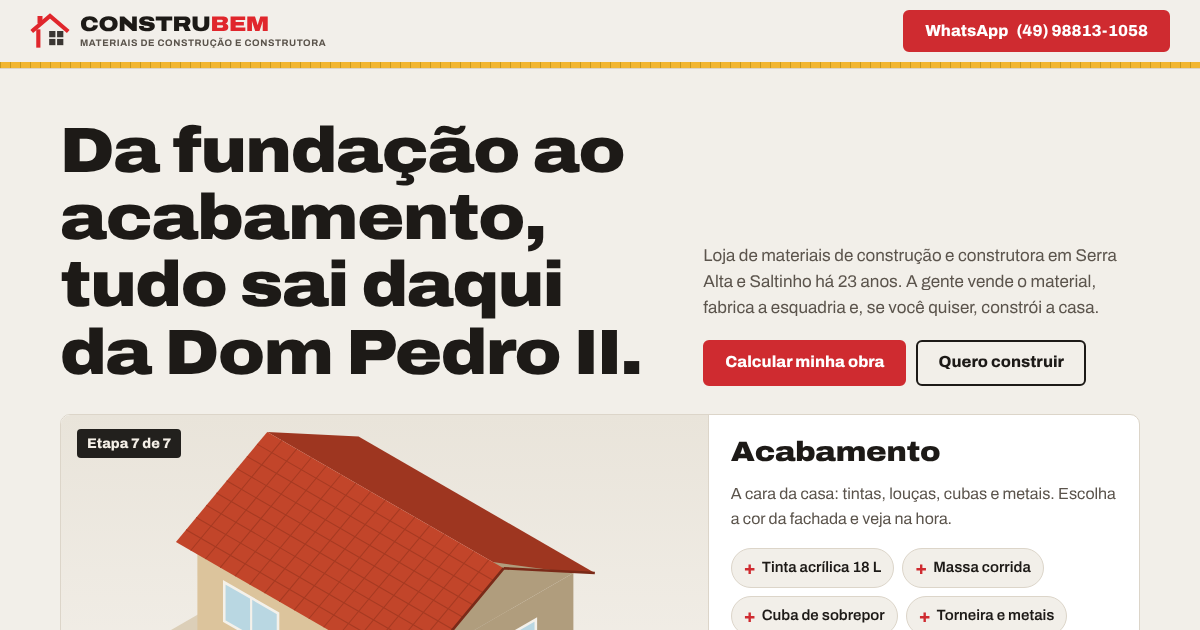
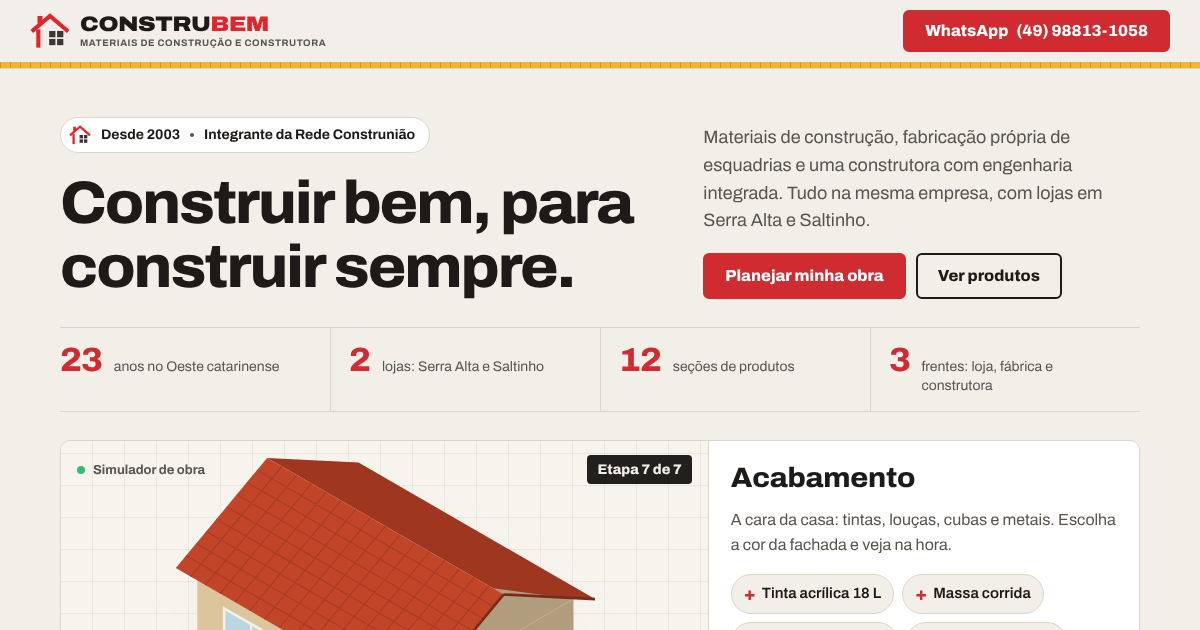
Abertura com mais credibilidade: slogan oficial, credenciais, faixa de números e simulador técnico
- Título com o slogan da loja: Construir bem, para construir sempre
- Selo Desde 2003 + Integrante da Rede Construnião e subtítulo objetivo
- Faixa de números (23 anos, 2 lojas, 12 seções, 3 frentes)
- Casa como simulador de obra: quadriculado técnico, indicador ao vivo e progresso
- Títulos do site menos largos e menos pesados para um visual mais sóbrio

Claude-Session: https://claude.ai/code/session_01Mawpux8SNx8Pf2g1y8kKSh

diff --git a/css/site.css b/css/site.css
@@ -10,9 +10,9 @@
 *{box-sizing:border-box;min-width:0}
 html{scroll-behavior:smooth;scroll-padding-top:76px}
 body{margin:0;background:var(--bg);color:var(--ink);font:16px/1.55 Archivo,system-ui,sans-serif;overflow-x:clip}
-h1,h2,h3{font-stretch:112%;font-weight:900;letter-spacing:-.02em;line-height:1.05;text-wrap:balance;margin:0}
-h1{font-size:clamp(34px,5.4vw,64px)}
-h2{font-size:clamp(30px,4vw,48px)}
+h1,h2,h3{font-stretch:104%;font-weight:800;letter-spacing:-.025em;line-height:1.06;text-wrap:balance;margin:0}
+h1{font-size:clamp(38px,5vw,66px);font-weight:800;letter-spacing:-.035em;line-height:1.07}
+h2{font-size:clamp(30px,3.6vw,46px)}
 h3{font-size:20px;font-stretch:100%;font-weight:800;letter-spacing:-.01em}
 p{margin:0}
 a{color:inherit}
@@ -75,7 +75,7 @@ input[type=range]::-moz-range-thumb{width:18px;height:26px;border-radius:4px;bac
 .drop{animation:drop .5s cubic-bezier(.2,.9,.3,1.2) both}
 /* wordmark */
 .mark{background:var(--brick);color:#fff;overflow:hidden}
-.word{display:flex;justify-content:space-between;font-stretch:112%;font-weight:900;font-size:clamp(44px,12.4vw,176px);line-height:.9;letter-spacing:-.03em;user-select:none}
+.word{display:flex;justify-content:space-between;font-stretch:112%;font-weight:800;font-size:clamp(44px,12.4vw,176px);line-height:.9;letter-spacing:-.03em;user-select:none}
 .word span{display:inline-block;transition:transform .25s cubic-bezier(.2,.9,.3,1.4),color .2s;text-shadow:0 .06em 0 var(--brick2)}
 .word span:hover,.word span.up{transform:translateY(-.12em) rotate(-3deg);color:var(--yel)}
 .mark-row{display:flex;flex-wrap:wrap;justify-content:space-between;gap:16px;margin-top:26px;font-size:19px;font-weight:600}
@@ -89,7 +89,7 @@ input[type=range]::-moz-range-thumb{width:18px;height:26px;border-radius:4px;bac
 .brk[aria-pressed=true]{background:var(--yel);color:var(--yel-ink)}
 .half{grid-column:span 1;background:var(--brick2);border-radius:3px;opacity:.75}
 .detail{position:sticky;top:96px;background:var(--card);border:1px solid var(--line);border-radius:10px;padding:24px;display:grid;gap:14px}
-.detail h3{font-size:26px;font-stretch:112%;font-weight:900}
+.detail h3{font-size:26px;font-stretch:104%;font-weight:800}
 .detail .brands{font-size:14px;color:var(--mute)}
 .detail .ctas .btn{min-height:42px}
 @media(max-width:860px){.split{grid-template-columns:minmax(0,1fr)}.detail{position:static}}
@@ -122,7 +122,7 @@ input[type=range]::-moz-range-thumb{width:18px;height:26px;border-radius:4px;bac
 .num input,.num select{border:0;background:transparent;min-height:46px;padding:0 12px;font-size:16px;width:100%}
 .num em{font-style:normal;color:var(--mute);padding-right:12px;white-space:nowrap}
 .cout{background:var(--panel);color:var(--panel-ink);border-left:1px solid var(--line);padding:24px;display:grid;gap:14px;align-content:start}
-.big{font-stretch:112%;font-weight:900;font-size:clamp(44px,6vw,76px);line-height:1;letter-spacing:-.03em;color:var(--yel);font-variant-numeric:tabular-nums}
+.big{font-stretch:104%;font-weight:800;font-size:clamp(44px,6vw,76px);line-height:1;letter-spacing:-.03em;color:var(--yel);font-variant-numeric:tabular-nums}
 .cout ul{margin:0;padding:0;list-style:none;display:grid;gap:6px}
 .cout li{display:flex;justify-content:space-between;gap:12px;border-bottom:1px solid var(--panel-line);padding-bottom:6px}
 .cout li b{white-space:nowrap}
@@ -210,7 +210,7 @@ footer .bottom{border-top:1px solid #2e2a26;margin-top:28px;padding-top:16px;fon
 .placa{position:sticky;top:96px;display:grid;justify-items:center}
 .board{width:100%;background:#fbf8f1;color:#1d1a17;border:5px solid #2b2622;border-radius:6px;overflow:hidden;box-shadow:0 14px 0 -6px rgba(0,0,0,.12)}
 .board .bh{background:#c2452a;color:#fff;padding:12px 16px;display:flex;justify-content:space-between;align-items:center;gap:10px}
-.board .bh b{font-stretch:112%;font-weight:900;font-size:20px;letter-spacing:-.01em}
+.board .bh b{font-stretch:104%;font-weight:800;font-size:20px;letter-spacing:-.01em}
 .board .bh span{background:#f2b632;color:#2a2110;font-weight:800;font-size:13px;padding:3px 8px;border-radius:3px;white-space:nowrap}
 .board .plan{height:clamp(220px,22vw,260px);background:repeating-linear-gradient(0deg,transparent 0 15px,#ece5d8 15px 16px),repeating-linear-gradient(90deg,transparent 0 15px,#ece5d8 15px 16px),#fbf8f1;border-bottom:2px solid #2b2622}
 .board .plan svg{width:100%;height:100%;display:block}
@@ -265,7 +265,7 @@ footer .bottom{border-top:1px solid #2e2a26;margin-top:28px;padding-top:16px;fon
 .scene{position:relative;background:linear-gradient(180deg,#f6efe2,#efe5d3)}
 .scene svg{position:absolute;inset:0;width:100%;height:100%}
 .path{padding:28px;display:grid;gap:14px;align-content:start}
-.path h3{font-size:clamp(24px,2.6vw,32px);font-stretch:112%;font-weight:900;line-height:1.1}
+.path h3{font-size:clamp(24px,2.6vw,32px);font-stretch:104%;font-weight:800;line-height:1.1}
 .path>p{color:rgba(244,239,231,.75)}
 .path ol{list-style:none;margin:6px 0 0;padding:0;display:grid;gap:10px}
 .path li button{all:unset;box-sizing:border-box;width:100%;display:grid;grid-template-columns:40px minmax(0,1fr) auto;gap:14px;align-items:center;padding:12px 14px;border-radius:10px;background:rgba(244,239,231,.06);border:1px solid var(--panel-line);cursor:pointer;transition:background .15s,transform .15s}
@@ -347,7 +347,7 @@ footer .wm small{color:#9d958a}
 .gal figcaption b{font-size:18px;line-height:1.15}
 .gal figcaption small{font-size:13px;opacity:.85}
 .gal .ig{background:var(--panel);color:var(--panel-ink);display:grid;align-content:space-between;padding:20px;cursor:default}
-.gal .ig .n{font-stretch:112%;font-weight:900;font-size:clamp(34px,3.6vw,48px);line-height:1;color:var(--yel)}
+.gal .ig .n{font-stretch:104%;font-weight:800;font-size:clamp(34px,3.6vw,48px);line-height:1;color:var(--yel)}
 .gal .ig p{color:rgba(244,239,231,.75);font-size:15px}
 .gal .ig .btn{border-color:var(--panel-line);color:var(--panel-ink);justify-content:center}
 @media(max-width:900px){.gal{grid-template-columns:repeat(2,minmax(0,1fr))}.gal .ig{grid-column:span 2;aspect-ratio:auto;gap:14px}}
@@ -368,7 +368,7 @@ footer .wm small{white-space:normal;line-height:1.3}
 .tp.big img{position:absolute;inset:0;width:100%;height:100%;object-fit:cover;transition:transform .5s}
 .tp.big:hover img{transform:scale(1.05)}
 .tp.big .tx{position:relative;align-self:end;padding:60px 22px 22px;background:linear-gradient(180deg,transparent,rgba(16,13,11,.9));height:100%;align-content:end}
-.tp.big b{font-size:clamp(24px,2.6vw,32px);font-stretch:112%;font-weight:900}
+.tp.big b{font-size:clamp(24px,2.6vw,32px);font-stretch:104%;font-weight:800}
 .tp.big small{color:rgba(255,255,255,.85);font-size:15px}
 .tp.big em{color:var(--yel)}
 .tp i,.brk .hot{font-style:normal;justify-self:start;font-size:12px;font-weight:800;background:var(--yel);color:var(--yel-ink);padding:2px 8px;border-radius:3px;margin-bottom:4px}
@@ -385,7 +385,7 @@ footer .wm small{white-space:normal;line-height:1.3}
 .ab-photo{margin:0;position:relative;padding-bottom:150px}
 .ab-photo img{width:100%;height:auto;aspect-ratio:720/280;object-fit:cover;display:block;border-radius:4px;filter:saturate(.9) contrast(1.05)}
 .ab-card{position:absolute;right:clamp(16px,3vw,36px);bottom:0;width:min(360px,calc(100% - 32px));background:#fff;color:#1d1a17;padding:22px 24px;border-radius:2px;box-shadow:0 18px 40px rgba(0,0,0,.18);display:grid;gap:4px}
-.ab-card b{font-stretch:112%;font-weight:900;font-size:24px;letter-spacing:-.01em}
+.ab-card b{font-stretch:104%;font-weight:800;font-size:24px;letter-spacing:-.01em}
 .ab-card>span{color:#6b6157;font-size:14px}
 .ab-card ul{list-style:none;margin:10px 0 6px;padding:0 0 0 12px;border-left:2px solid #e0262c;display:grid;gap:4px;font-size:14px}
 .ab-card a{justify-self:end;display:inline-flex;align-items:center;gap:6px;font-weight:800;color:#1d1a17;text-decoration:none}
@@ -399,7 +399,7 @@ footer .wm small{white-space:normal;line-height:1.3}
 .pillars span{color:var(--mute)}
 .stats{display:grid;grid-template-columns:repeat(4,minmax(0,1fr));margin-top:clamp(36px,5vw,64px);border-top:2px solid var(--ink)}
 .stats div{padding:22px 20px 0 0;display:grid;gap:6px}
-.stats b{font-stretch:112%;font-weight:900;font-size:clamp(44px,5.4vw,72px);line-height:1;letter-spacing:-.03em;color:var(--brick);font-variant-numeric:tabular-nums}
+.stats b{font-stretch:104%;font-weight:800;font-size:clamp(44px,5.4vw,72px);line-height:1;letter-spacing:-.03em;color:var(--brick);font-variant-numeric:tabular-nums}
 .stats span{color:var(--mute);font-size:15px;max-width:22ch}
 .cred{display:grid;grid-template-columns:minmax(0,1.4fr) minmax(0,1fr);gap:24px;margin-top:40px;padding:24px;border:1px solid var(--line);border-radius:10px;background:var(--bg)}
 .rede{display:grid;grid-template-columns:56px minmax(0,1fr);gap:16px;align-items:start}
@@ -414,3 +414,28 @@ footer .wm small{white-space:normal;line-height:1.3}
 @media(max-width:900px){.ab-grid{grid-template-columns:minmax(0,1fr)}.stats{grid-template-columns:repeat(2,minmax(0,1fr));row-gap:20px}.cred{grid-template-columns:minmax(0,1fr)}.legal{border-left:0;padding-left:0;border-top:1px solid var(--line);padding-top:16px}}
 @media(max-width:900px){.ab-photo{padding-bottom:120px}}
 @media(max-width:520px){.pillars li{grid-template-columns:minmax(0,1fr);gap:2px}.ab-photo{padding-bottom:0}.ab-card{position:relative;left:auto;bottom:auto;width:auto;margin:-24px 14px 0}}
+
+/* abertura com credenciais */
+.h-main{display:grid;gap:18px}
+.cred-pill{justify-self:start;white-space:nowrap;display:inline-flex;align-items:center;gap:10px;padding:6px 14px 6px 8px;border-radius:999px;border:1px solid var(--line);background:var(--card);font-size:14px;font-weight:700;color:var(--ink)}
+.cred-pill svg{color:var(--logo-gray)}
+.cred-pill i{width:4px;height:4px;border-radius:50%;background:var(--mute)}
+.hero-top{align-items:end}
+.hero .lead{font-size:18px}
+.trust{display:grid;grid-template-columns:repeat(4,minmax(0,1fr));border-top:1px solid var(--line);border-bottom:1px solid var(--line);margin-bottom:28px}
+.trust div{display:flex;align-items:baseline;gap:12px;padding:16px 18px 16px 0}
+.trust div+div{padding-left:18px;border-left:1px solid var(--line)}
+.trust b{font-size:clamp(28px,2.8vw,38px);font-weight:800;font-stretch:104%;letter-spacing:-.03em;color:var(--brick);font-variant-numeric:tabular-nums;line-height:1}
+.trust span{color:var(--mute);font-size:14px;line-height:1.3}
+@media(max-width:480px){.cred-pill{font-size:12.5px;gap:7px;padding-right:12px}.trust div{flex-direction:column;gap:4px}}
+@media(max-width:760px){.trust{grid-template-columns:repeat(2,minmax(0,1fr))}.trust div:nth-child(3){padding-left:0;border-left:0}.trust div:nth-child(n+3){border-top:1px solid var(--line)}}
+/* visualizador técnico */
+.stage-pic{background:radial-gradient(ellipse at 50% 70%,light-dark(rgba(224,38,44,.06),rgba(242,182,50,.07)),transparent 60%),repeating-linear-gradient(0deg,transparent 0 31px,light-dark(rgba(29,26,23,.06),rgba(244,239,231,.05)) 31px 32px),repeating-linear-gradient(90deg,transparent 0 31px,light-dark(rgba(29,26,23,.06),rgba(244,239,231,.05)) 31px 32px),light-dark(#f7f4ee,#1a1715)}
+.hud{position:absolute;left:16px;right:16px;top:14px;z-index:1;display:flex;justify-content:space-between;gap:10px;pointer-events:none}
+.hud .live{display:inline-flex;align-items:center;gap:8px;font-size:13px;font-weight:700;color:var(--mute)}
+.hud .live i{width:8px;height:8px;border-radius:50%;background:#2fbf71;box-shadow:0 0 0 0 rgba(47,191,113,.6);animation:live 2s infinite}
+@keyframes live{70%{box-shadow:0 0 0 8px rgba(47,191,113,0)}100%{box-shadow:0 0 0 0 rgba(47,191,113,0)}}
+.stage-pic .tag{position:static;font-variant-numeric:tabular-nums}
+.hud-b{position:absolute;left:16px;right:16px;bottom:14px;z-index:1;display:grid;grid-template-columns:auto minmax(0,1fr);gap:12px;align-items:center;font-size:13px;font-weight:700;color:var(--mute);pointer-events:none}
+.hud-b .bar{height:4px;border-radius:2px;background:var(--line);overflow:hidden}
+.hud-b .bar i{display:block;height:100%;width:100%;background:linear-gradient(90deg,var(--brick),var(--yel));transition:width .5s}

diff --git a/index.html b/index.html
@@ -14,7 +14,7 @@
 <link rel="icon" href="img/icone.svg" type="image/svg+xml">
 <link rel="preload" href="fonts/archivo.woff2" as="font" type="font/woff2" crossorigin>
 <link rel="stylesheet" href="css/fonts.css?v=1">
-<link rel="stylesheet" href="css/site.css?v=10">
+<link rel="stylesheet" href="css/site.css?v=11">
 </head>
 <body>
 <header>
@@ -37,16 +37,25 @@
 <section class="band hero" id="inicio" data-trena="Obra">
   <div class="wrap">
     <div class="hero-top">
-      <h1>Da fundação ao acabamento, tudo sai daqui da Dom Pedro II.</h1>
+      <div class="h-main">
+        <span class="cred-pill"><svg viewBox="0 0 48 48" width="22" height="22" aria-hidden="true"><path d="M4 23 24 6l20 17" fill="none" stroke="#e0262c" stroke-width="5" stroke-linecap="square"/><rect x="9" y="6" width="6" height="9" fill="#e0262c"/><path d="M10 22v22" stroke="#e0262c" stroke-width="5"/><g fill="currentColor"><rect x="23" y="24" width="7.5" height="7.5"/><rect x="32.5" y="24" width="7.5" height="7.5"/><rect x="23" y="33.5" width="7.5" height="7.5"/><rect x="32.5" y="33.5" width="7.5" height="7.5"/></g></svg>Desde 2003 <i></i> Integrante da Rede Construnião</span>
+        <h1>Construir bem, para construir sempre.</h1>
+      </div>
       <div class="side">
-        <p class="lead">Loja de materiais de construção e construtora em Serra Alta e Saltinho há 23 anos. A gente vende o material, fabrica a esquadria e, se você quiser, constrói a casa.</p>
-        <div class="ctas"><a class="btn solid" href="#calculadora">Calcular minha obra</a><a class="btn" href="#construtora">Quero construir</a></div>
+        <p class="lead">Materiais de construção, fabricação própria de esquadrias e uma construtora com engenharia integrada. Tudo na mesma empresa, com lojas em Serra Alta e Saltinho.</p>
+        <div class="ctas"><a class="btn solid" href="#construtora">Planejar minha obra</a><a class="btn" href="#produtos">Ver produtos</a></div>
       </div>
     </div>
+    <div class="trust" aria-label="Números da Construbem">
+      <div><b>23</b><span>anos no Oeste catarinense</span></div>
+      <div><b>2</b><span>lojas: Serra Alta e Saltinho</span></div>
+      <div><b>12</b><span>seções de produtos</span></div>
+      <div><b>3</b><span>frentes: loja, fábrica e construtora</span></div>
+    </div>
     <div class="site" id="obra">
-      <div class="stage-pic"><span class="tag" id="stTag">Etapa 7 de 7</span><svg id="house" viewBox="0 0 600 460" preserveAspectRatio="xMidYMid meet" role="img" aria-label="Casa sendo construída etapa por etapa"></svg></div>
+      <div class="stage-pic"><div class="hud"><span class="live"><i></i>Simulador de obra</span><span class="tag" id="stTag">Etapa 7 de 7</span></div><div class="hud-b"><span id="stPct">100% concluído</span><span class="bar"><i id="stBar"></i></span></div><svg id="house" viewBox="0 0 600 460" preserveAspectRatio="xMidYMid meet" role="img" aria-label="Casa sendo construída etapa por etapa"></svg></div>
       <div class="stage-ui">
-        <h3 id="stName" style="font-size:28px;font-stretch:112%;font-weight:900">Acabamento</h3>
+        <h3 id="stName" style="font-size:28px;font-stretch:104%;font-weight:800">Acabamento</h3>
         <p id="stDesc"></p>
         <div class="chips" id="stItems"></div>
         <div id="paint" hidden><div class="lbl" style="margin-bottom:8px">Cor da fachada <span id="paintName" style="color:var(--mute);font-weight:600"></span></div><div class="swatches" id="sw"></div></div>
@@ -58,7 +67,6 @@
         <div class="steps scroll" id="steps"></div>
       </div>
     </div>
-    <div class="facts" style="margin-top:20px"><span>23 anos construindo sonhos</span><span>Lojas em Serra Alta e Saltinho</span><span>Engenharia integrada</span><span>Esquadrias e artefatos de cimento de fabricação própria</span><span>Entrega com frota própria</span><span>Rede Construnião</span></div>
   </div>
 </section>
 
@@ -131,7 +139,7 @@
   <div class="wrap">
     <div class="rowh"><div><h2>Os mais procurados nas lojas.</h2><p class="lead" style="margin-top:12px">O que mais sai em Serra Alta e Saltinho, segundo as ofertas da própria Construbem.</p></div><a class="btn" href="https://www.instagram.com/construbemsa/" target="_blank" rel="noopener">Ver no Instagram</a></div>
     <div class="tops" id="tops"></div>
-    <h3 style="margin-top:44px;font-size:clamp(22px,2.6vw,28px);font-stretch:112%;font-weight:900">Na prateleira agora</h3>
+    <h3 style="margin-top:44px;font-size:clamp(22px,2.6vw,28px);font-stretch:104%;font-weight:800">Na prateleira agora</h3>
     <div class="gal" id="gal"></div>
   </div>
 </section>
@@ -201,7 +209,7 @@
         <div class="posts" aria-hidden="true"><i></i><i></i></div>
       </div>
     </div>
-    <h3 style="margin-top:56px;font-size:clamp(24px,3vw,32px);font-stretch:112%;font-weight:900">Como funciona</h3>
+    <h3 style="margin-top:56px;font-size:clamp(24px,3vw,32px);font-stretch:104%;font-weight:800">Como funciona</h3>
     <div class="flow" id="flow"></div>
     <div class="svc" id="svc">
       <button data-t="0"><h3>Construção e reforma</h3><p>Casas, ampliações e reformas, com engenharia e material da própria loja.</p><em>Montar meu pedido →</em></button>
@@ -278,7 +286,7 @@
 <div class="sheet" id="sheet" role="dialog" aria-modal="true" aria-labelledby="shT">
   <div class="bg" id="shBg"></div>
   <div class="pn">
-    <div class="h"><h3 id="shT" style="font-size:22px;font-stretch:112%;font-weight:900">Lista da obra</h3><button id="shX" aria-label="Fechar">×</button></div>
+    <div class="h"><h3 id="shT" style="font-size:22px;font-stretch:104%;font-weight:800">Lista da obra</h3><button id="shX" aria-label="Fechar">×</button></div>
     <div class="items" id="items"></div>
     <div class="f">
       <div class="row"><input id="lNome" placeholder="Seu nome" aria-label="Seu nome"><input id="lCid" placeholder="Cidade" aria-label="Cidade"></div>
@@ -291,6 +299,6 @@
 <div class="toast" id="toast" role="status"></div>
 
 <script src="js/dados.js?v=7"></script>
-<script src="js/site.js?v=8"></script>
+<script src="js/site.js?v=9"></script>
 </body>
 </html>

diff --git a/js/site.js b/js/site.js
@@ -65,7 +65,7 @@ function house(){
   if(!reduce&&prev>=0&&stage>prev)svg.querySelectorAll('[data-s]').forEach(el=>{const k=+el.dataset.s;if(k>prev&&k<=stage){el.classList.add('drop');el.style.animationDelay=((k-prev-1)*.12)+'s'}});
   prev=stage;
 }
-function setStage(k){stage=k;const S=stages[k];$('stRange').value=k;$('stName').textContent=S.n;$('stDesc').textContent=S.d;$('stTag').textContent='Etapa '+(k+1)+' de 7';
+function setStage(k){stage=k;const S=stages[k];$('stRange').value=k;$('stName').textContent=S.n;$('stDesc').textContent=S.d;$('stTag').textContent='Etapa '+(k+1)+' de 7';const pc=Math.round((k+1)/7*100);$('stPct').textContent=pc+'% concluído';$('stBar').style.width=pc+'%';
   $('stItems').innerHTML=S.it.map(n=>`<button class="chip" data-n="${esc(n)}"><b>+</b>${esc(n)}</button>`).join('');
   $('paint').hidden=!S.paint;$('paintName').textContent=paint[0];
   $('steps').querySelectorAll('button').forEach((b,i)=>b.setAttribute('aria-current',i===k));house()}
